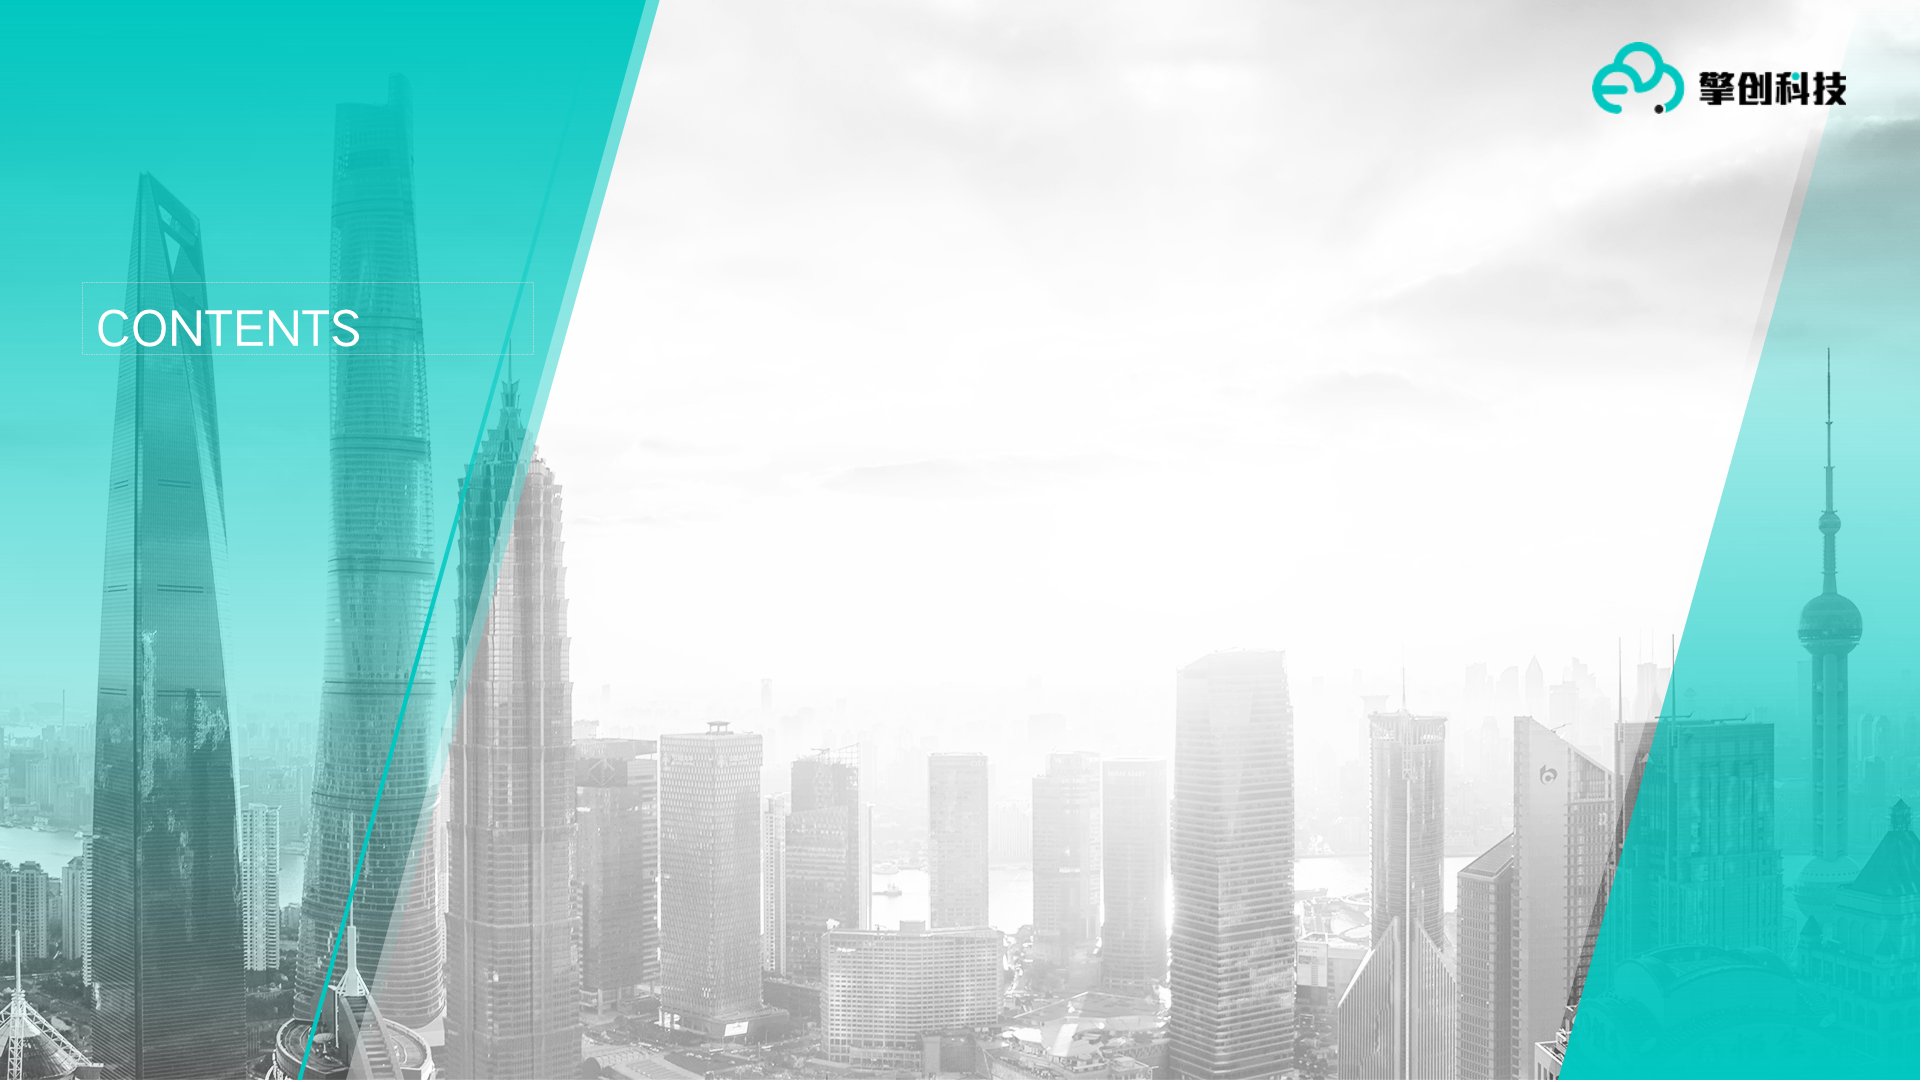
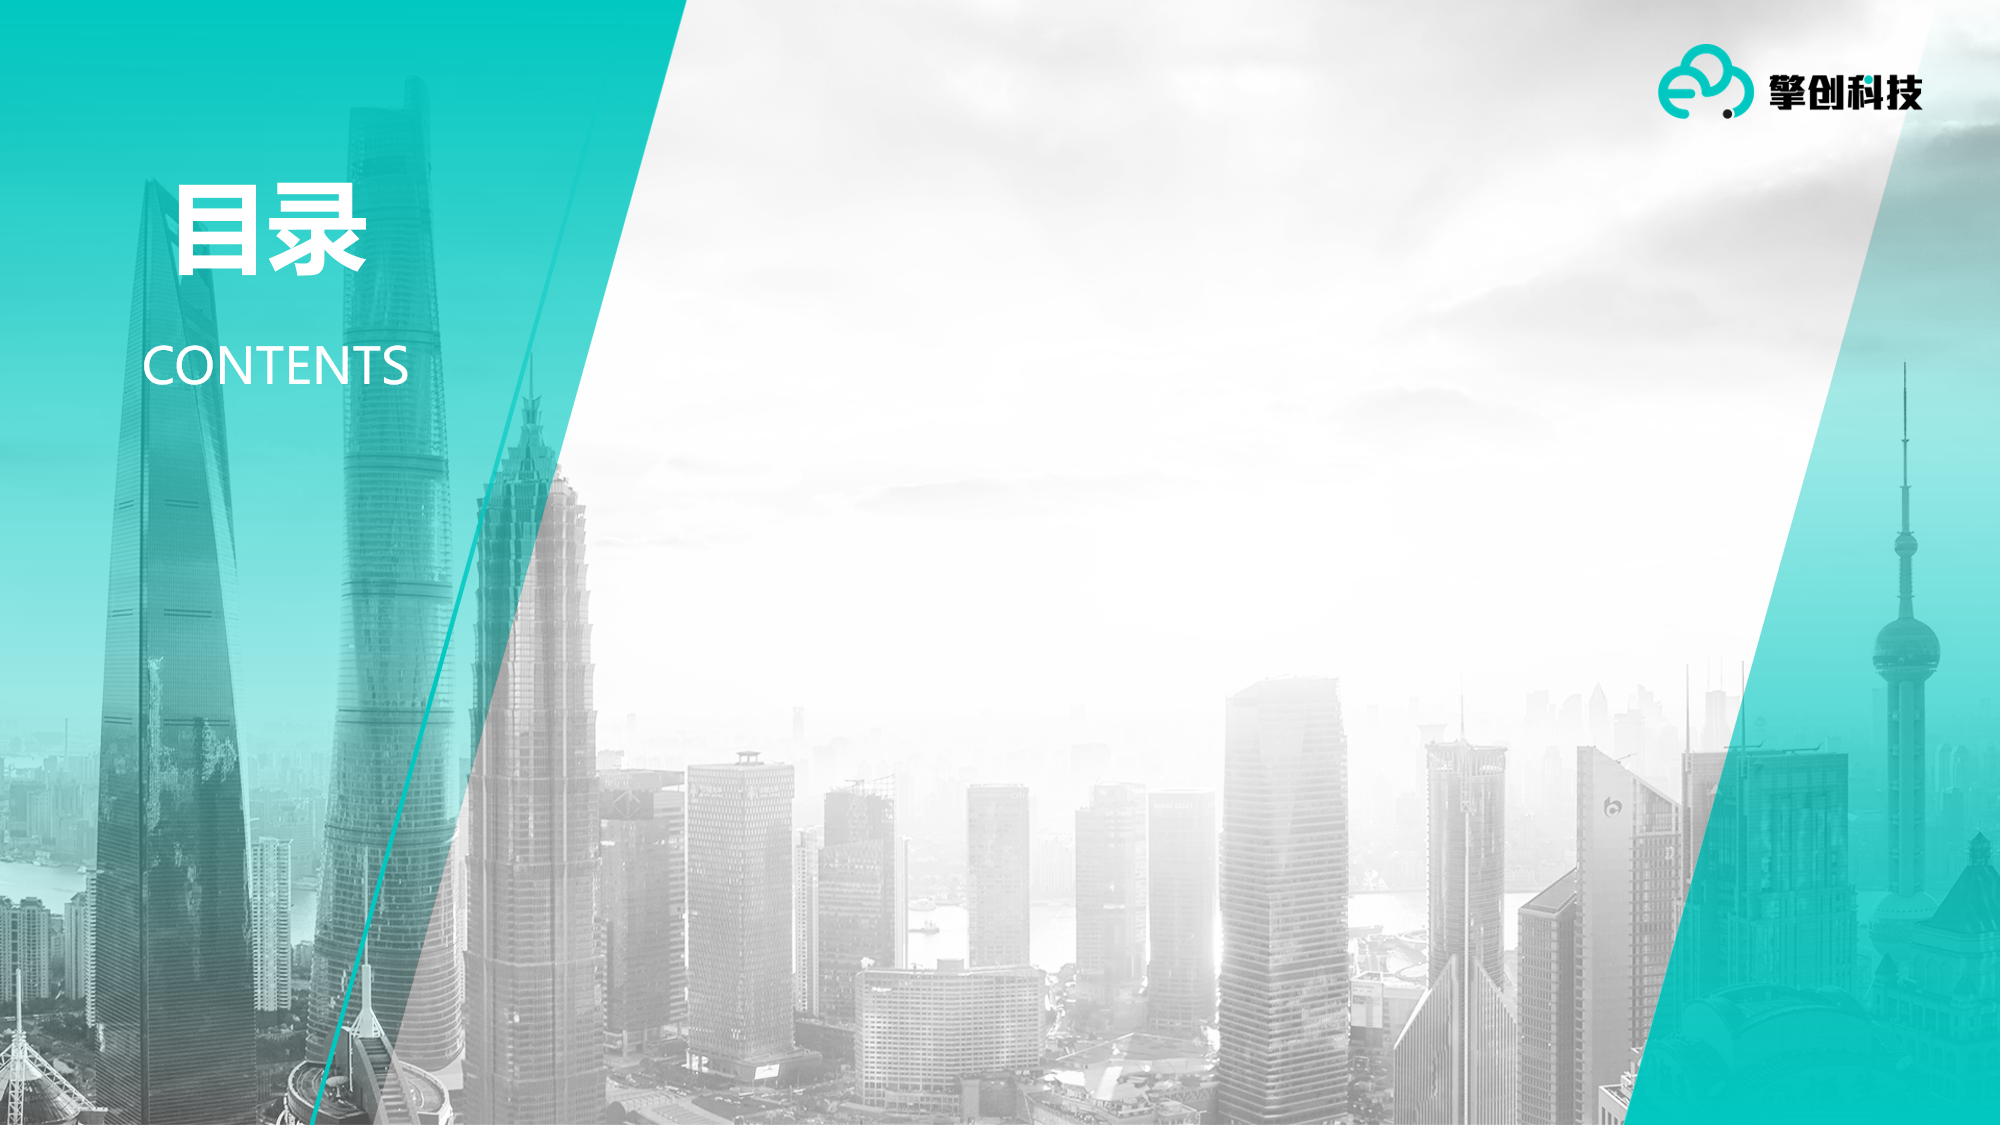
更新md

diff --git a/layouts/style-two.vue b/layouts/style-two.vue
@@ -1,0 +1,26 @@
+<script setup lang="ts">
+import { defineProps } from 'vue'
+const props = defineProps({
+  image: {
+    type: String,
+  },
+  title: {
+    type: String,
+  }
+})
+</script>
+
+<template>
+  <div class="flex pt-40 pl-20 pr-30 w-full h-full bg-center bg-cover style-two"
+       style="background-image: url('../images/bg-title-1.png')">
+    <aside class="w-xs ml-10 text-6xl theme-color">📝定义</aside>
+    <slot />
+  </div>
+</template>
+<style>
+.style-two > div {
+  flex: 1;
+  display: flex;
+  flex-direction: column;
+}
+</style>

diff --git a/layouts/style-one.vue b/layouts/style-one.vue
@@ -1,0 +1,26 @@
+<script setup lang="ts">
+import { defineProps } from 'vue'
+const props = defineProps({
+  image: {
+    type: String,
+  },
+  title: {
+    type: String,
+  }
+})
+</script>
+
+<template>
+  <div class="flex flex-col pt-48px px-72px w-full h-full bg-center bg-cover style-one"
+       :style="`background-image: url(${props.image})`">
+    <h1 class="text-4xl font-bold mb-10">{{ props.title }}</h1>
+    <slot />
+  </div>
+</template>
+<style>
+.style-one > div {
+  flex: 1;
+  display: flex;
+  flex-direction: column;
+}
+</style>

diff --git a/layouts/title.vue b/layouts/title.vue
@@ -1,0 +1,19 @@
+<script setup lang="ts">
+import { defineProps } from 'vue'
+const props = defineProps({
+  title: {
+    type: String,
+  },
+  subtitle: {
+    type: String,
+  }
+})
+</script>
+
+<template>
+  <div class="flex flex-col pt-50 pl-130 w-full h-full bg-center bg-cover style-one"
+       :style="`background-image: url('./images/bg-title-2.png')`">
+    <h1 class="text-4xl font-bold mb-20 theme-color">{{ props.title }}</h1>
+    <h3 class="text-3xl theme-color ml-2">{{ props.subtitle }}</h3>
+  </div>
+</template>

diff --git a/layouts/menu.vue b/layouts/menu.vue
@@ -1,0 +1,5 @@
+<template>
+  <div class="flex flex-col w-full h-full bg-center bg-cover menu pt-20 pl-80" style="background-image: url('../images/bg-menu.png')">
+    <slot />
+  </div>
+</template>

diff --git a/slides.md b/slides.md
@@ -16,6 +16,23 @@ info: |
 ---
 # Web Component
 ---
+layout: menu
+---
+<style>
+  .theme-color {
+    color: #00c8c1;
+  }
+</style>
+---
+layout: style-one
+image: ./images/bg-content-2.png
+title: '123'
+---
+<div>
+  内容
+</div>
+
+---
 layout: full-screen
 image: ./images/bg-home-page.png
 ---
@@ -27,11 +44,11 @@ image: ./images/bg-home-page.png
 这是备注
 -->
 ---
-layout: full-screen
+layout: style-one
 image: ./images/bg-content-2.png
+title: '引言'
 ---
-<div class="mt-12 ml-20 relative">
-  <h1 class="text-3xl font-bold mb-10">引言</h1>
+<div class="">
   <v-clicks>
 
   - <p class="mb-4">通常一个应用会以一棵嵌套的组件树（DOM tree）的形式来组织；</p>
@@ -45,79 +62,48 @@ image: ./images/bg-content-2.png
     :enter="{ x: 0, opacity: 1, transition: { delay: 2000, duration: 1000 } }"     class="w-screen-sm absolute right-10px top-150px" src="https://cn.vuejs.org/images/components.png" />
 </div>
 ---
-layout: full-screen
+layout: style-one
 image: ./images/bg-content-2.png
+title: '引言'
 ---
-<div class="mt-12 ml-20">
-  <h1 class="text-3xl font-bold mb-10">引言</h1>
+<div class="">
   <p class="mb-4">组件是前端的发展方向，现在流行的 React 和 Vue 都是组件框架。</p>
   <a class="mb-4" href="https://react.docschina.org/docs/components-and-props.html">react组件：</a>
-  <p class="mb-4" v-click>函数组件与 class 组件 => UI = f(data)</p>
+  <p class="mb-4 text-rose-600" v-click>函数组件与 class 组件 => UI = f(data)</p>
   <a class="mb-4" href="https://v3.cn.vuejs.org/guide/component-basics.html">vue3组件：</a>
-  <p class="mb-8" v-click>vue单文件组件</p>
+  <p class="mb-8 text-rose-600" v-click>vue单文件组件</p>
   <p v-click>谷歌公司由于掌握了 Chrome 浏览器，一直在推动浏览器的原生组件，即 Web Components API。</p>
   <p v-after>相比第三方框架，原生组件简单直接，符合直觉，不用加载任何外部模块，代码量小。</p>
 </div>
 ---
-layout: full-screen
-image: ./images/bg-menu.png
+layout: menu
 ---
-<style>
-  .theme-color {
-    color: #00c8c1;
-  }
-</style>
-<div class="flex mt-20">
-  <aside class="ml-15 mr-50 text-5xl text-gray-200">目录</aside>
-  <ul class="mt-10">
-    <li v-click class="text-5xl font-bold mb-10 theme-color">web components介绍</li>
-    <li v-after class="text-5xl font-bold mb-10 theme-color">web components运用</li>
-    <li v-after class="text-5xl font-bold mb-10 theme-color">第三方封装库</li>
-    <li v-after class="text-5xl font-bold theme-color">总结</li>
-  </ul>
-</div>
+<ul class="mt-10">
+  <li v-click class="text-5xl font-bold mb-10 theme-color">web components介绍</li>
+  <li v-after class="text-5xl font-bold mb-10 theme-color">web components运用</li>
+  <li v-after class="text-5xl font-bold mb-10 theme-color">第三方封装库</li>
+  <li v-after class="text-5xl font-bold theme-color">总结</li>
+</ul>
 <!--
 这是备注
 -->
 ---
-layout: full-screen
-image: ./images/bg-title-2.png
+layout: title
+title: Web Components
+subtitle: 介绍
 ---
-<style>
-  .theme-color {
-    color: #00c8c1;
-  }
-</style>
-<div class="ml-130 mt-50 font-bold theme-color">
-  <h1 v-motion
-      :initial="{ x: -80 }"
-      :enter="{ x: 0 }"
-      class="text-5xl mb-10">
-    Web Components
-  </h1>
-  <p class="text-3xl ml-2">介绍</p>
-</div>
 ---
-layout: full-screen
+layout: style-two
 image: ./images/bg-title-1.png
+title: 定义
 ---
-<style>
-  .theme-color {
-    color: #00c8c1;
-  }
-</style>
-<div class="flex mt-30">
-  <aside class="w-xs ml-30 mr-40 text-6xl theme-color">定义</aside>
-  <div class="pt-10 pr-22">Web Components 是一套不同的技术，允许您创建可重用的定制元素（它们的功能封装在您的代码之外）并且在您的web应用中使用它们。—— MDN</div>
-</div>
+<div class="text-light-50 text-xl">Web Components 是一套不同的技术，允许您创建可重用的定制元素（它们的功能封装在您的代码之外）并且在您的web应用中使用它们。—— MDN</div>
 <!--  -->
 ---
-layout: full-screen
+layout: style-one
 image: ./images/bg-content-2.png
+title: 目标
 ---
-<div class="mt-12 ml-20">
-  <h1 class="text-3xl font-bold mb-10">目标</h1>
-</div>
 
 ```html {6-8}
   <!DOCTYPE html>
@@ -133,6 +119,22 @@ image: ./images/bg-content-2.png
 <!--  -->
 ---
 layout: image
+image: ./images/bg-subtitle.png
+---
+<style>
+  .subtitle {
+    list-style: none;
+    background-image: url('./images/bg-subtitle-item.png')
+  }
+</style>
+<ul class="pl-70 pt-10 text-dark-900">
+  <li class="w-200 h-14 mb-10 bg-no-repeat bg-contain subtitle text-3xl"
+      v-for="(v, i) in ['注册与使用', '组件通信', '组件生命周期', '组件插槽']" :key="i">
+    <i class="ml-4 mr-10 text-light-50">{{ i + 1}}</i>{{ v }}
+  </li>
+</ul>
+---
+layout: image
 image: ./images/bg-content-1.png
 ---
 <div class="theme-color">
@@ -143,8 +145,33 @@ image: ./images/bg-content-1.png
   <p class="mt-10">它们可以一起使用来创建功能强大的定制元素，并且可以在我们喜欢的任何地方重用，不必担心代码冲突。</p>
 </div>
 ---
+layout: image-right
+image: https://source.unsplash.com/collection/94734566/1920x1080
+---
+
+# Code
+
+Use code snippets and get the highlighting directly!
+
+```ts {all|2|1-6|9|all}
+interface User {
+  id: number
+  firstName: string
+  lastName: string
+  role: string
+}
+
+function updateUser(id: number, update: User) {
+  const user = getUser(id)
+  const newUser = {...user, ...update}
+  saveUser(id, newUser)
+}
+```
+
+<arrow v-click="3" x1="400" y1="420" x2="230" y2="330" color="#564" width="3" arrowSize="1" />
+---
 layout: full-screen
-image: ./images/bg-content-2.png
+image: './images/bg-content-2.png'
 ---
 <div>
   内容样式2
@@ -152,10 +179,5 @@ image: ./images/bg-content-2.png
 <!--  -->
 ---
 layout: full-screen
-image: ./images/bg-end.png
----
-<div>
-  结束
-</div>
-<!--  -->
+image: './images/bg-end.png'
 ---
